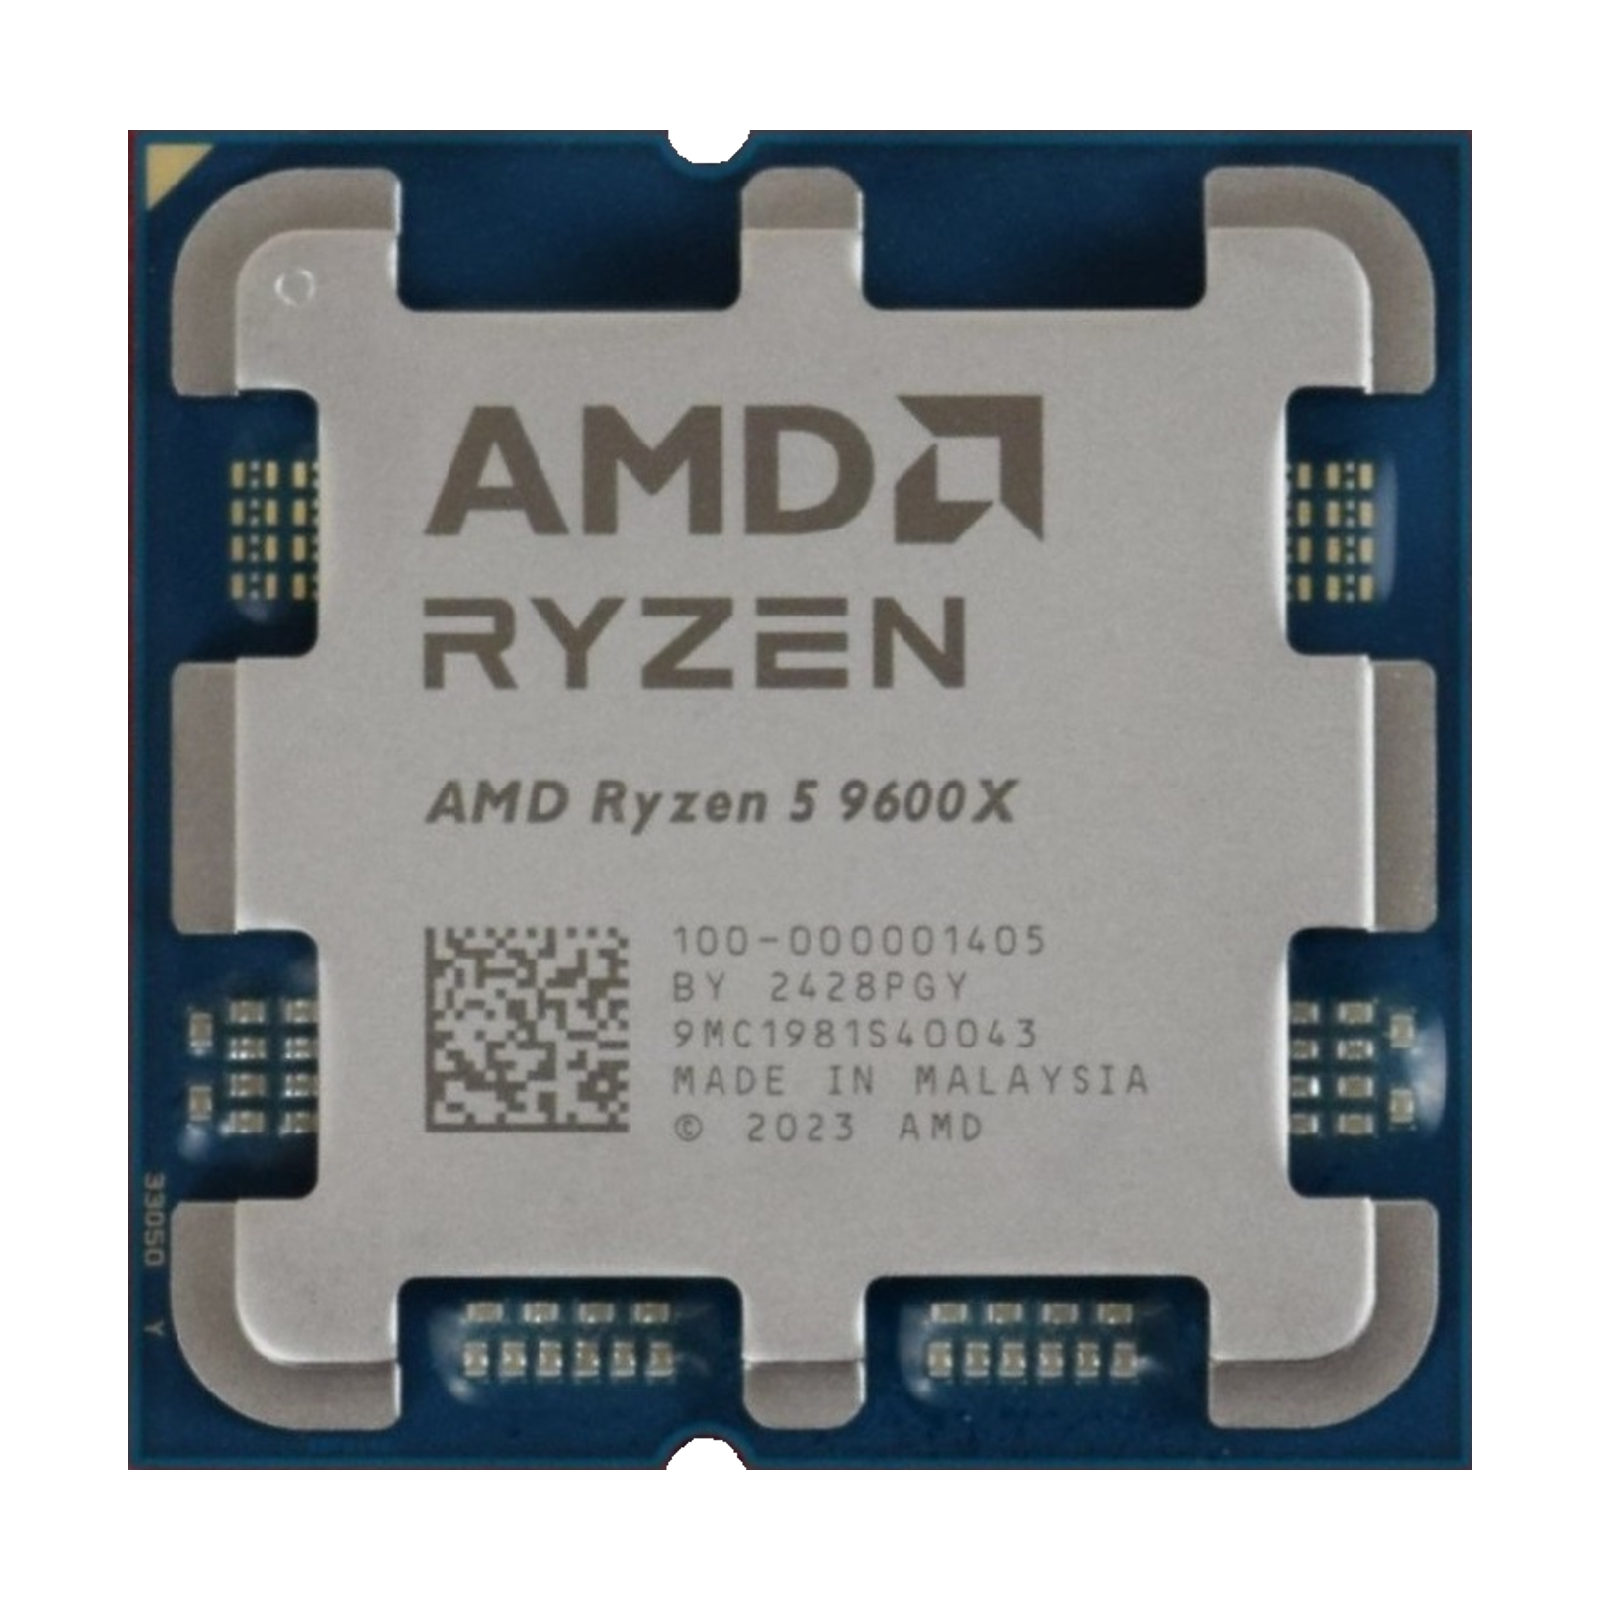
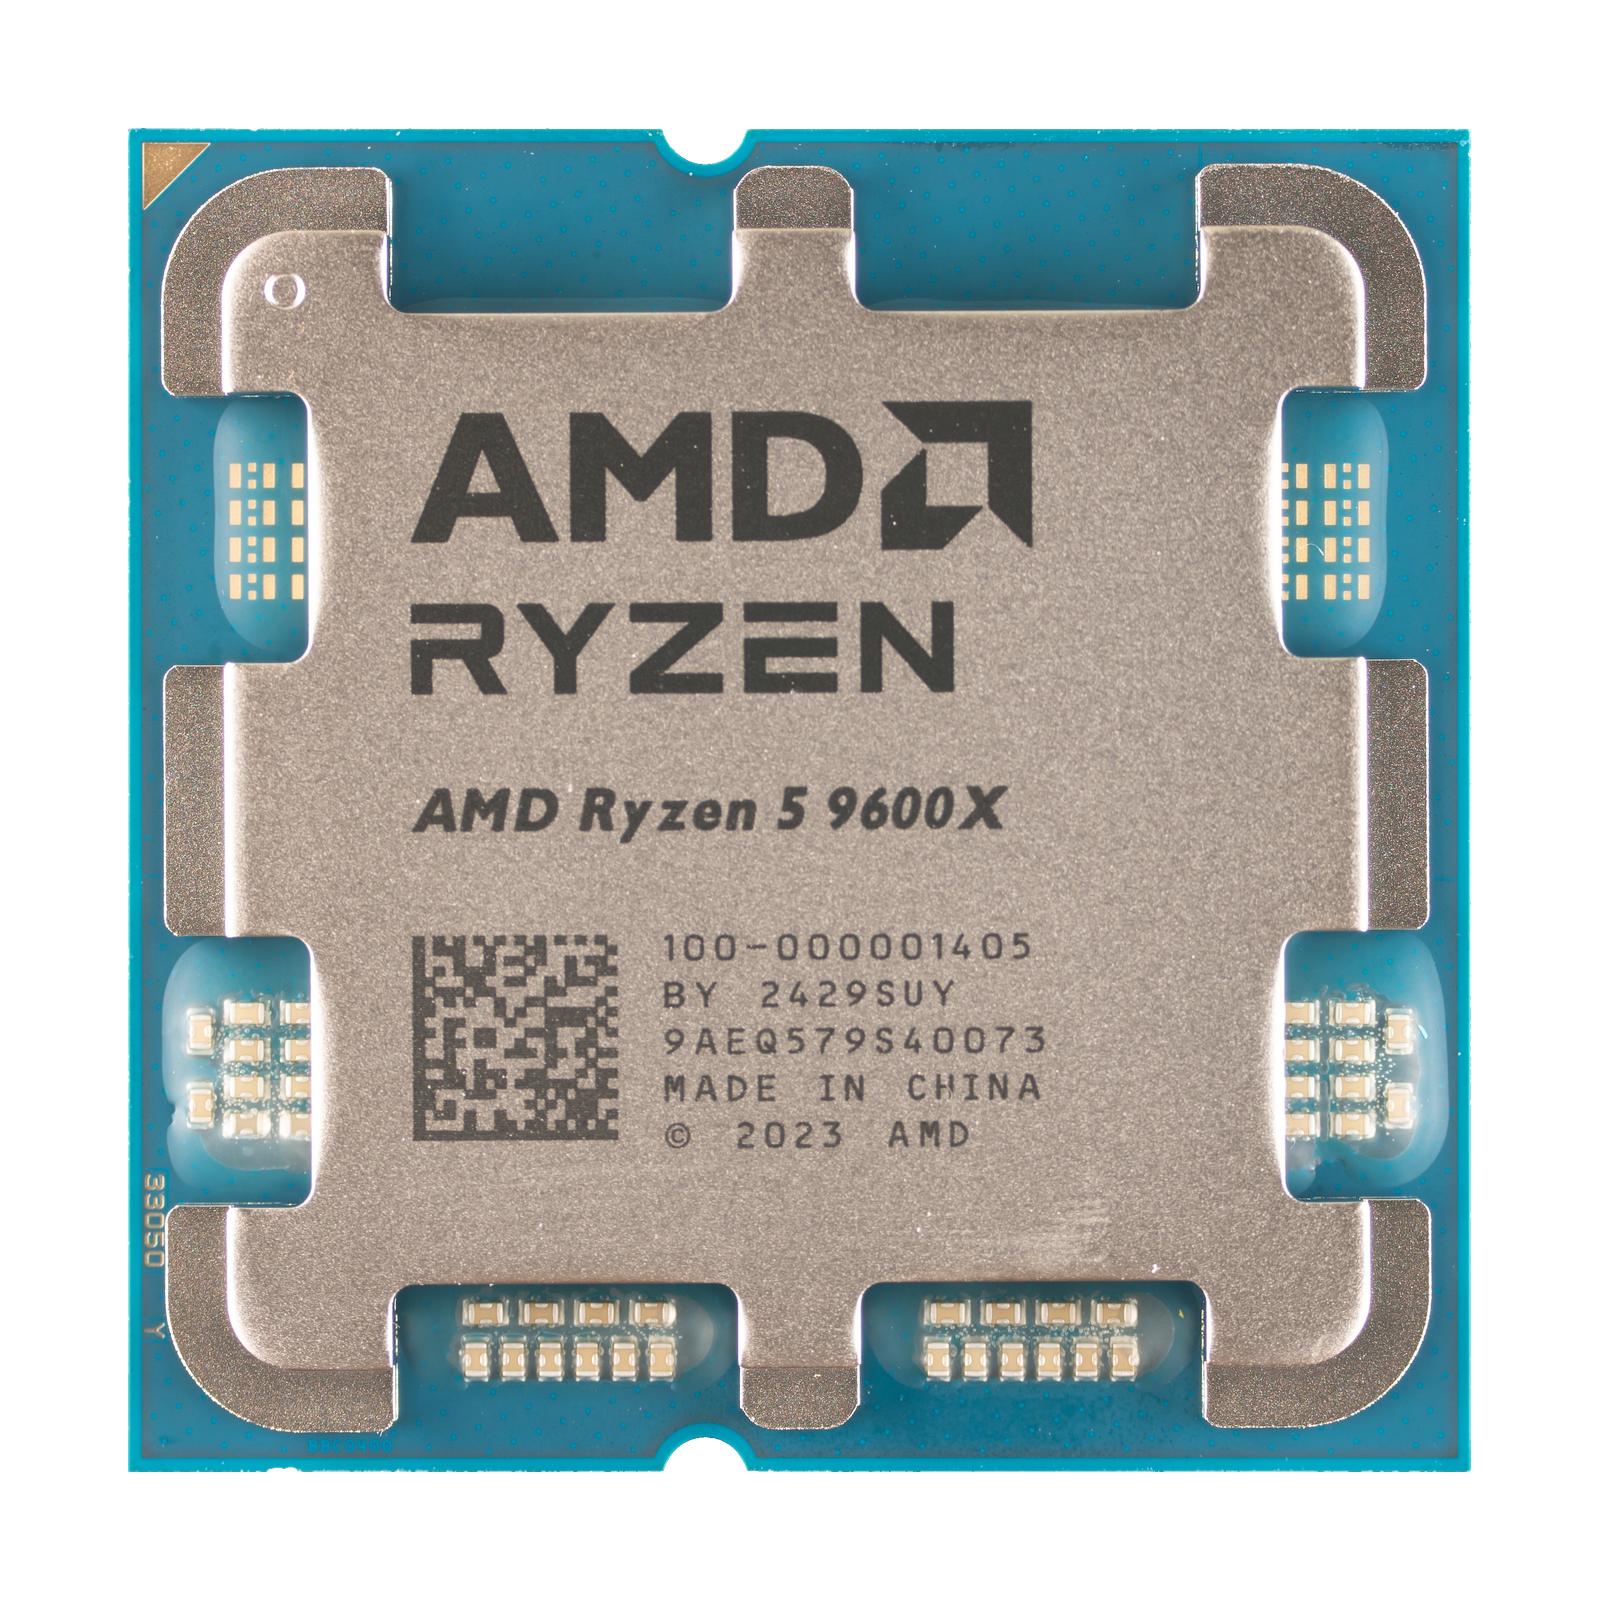
fix: replace CPU sources and bound enlargement

diff --git a/tests/unit/product-cutout.test.ts b/tests/unit/product-cutout.test.ts
@@ -14,6 +14,14 @@ import { getProductCutoutPolicy } from '../../scripts/product-cutout-policy.mjs'
 
 const execFileAsync = promisify(execFile)
 
+async function createOpaqueSquareFixture(size = 50) {
+  return sharp({
+    create: { width: size, height: size, channels: 4, background: '#2f86ff' },
+  })
+    .png()
+    .toBuffer()
+}
+
 test('normaliza un recorte sin perder alfa ni margen seguro', async () => {
   const opaqueFixture = await sharp({
     create: { width: 640, height: 320, channels: 4, background: '#2f86ff' },
@@ -37,6 +45,50 @@ test('normaliza un recorte sin perder alfa ni margen seguro', async () => {
   })
   const bounds = await measureOpaqueBounds(output)
   expect(bounds.safeMarginRatio).toBeGreaterThanOrEqual(0.06)
+})
+
+test('rechaza una ampliación que supera el límite medido con un error accionable', async () => {
+  const input = await createOpaqueSquareFixture()
+
+  await expect(
+    normalizeProductCutout(input, {
+      canvas: 100,
+      occupancy: 0.8,
+      allowEnlargement: true,
+      maxEnlargementRatio: 1.5,
+    }),
+  ).rejects.toThrow(
+    'La ampliación solicitada (1.600×) supera el máximo permitido (1.500×); fuente opaca 50×50 px, objetivo 80 px.',
+  )
+})
+
+test('exige un límite explícito cuando se habilita la ampliación', async () => {
+  const input = await createOpaqueSquareFixture()
+
+  await expect(
+    normalizeProductCutout(input, {
+      canvas: 100,
+      occupancy: 0.8,
+      allowEnlargement: true,
+    }),
+  ).rejects.toThrow(
+    'allowEnlargement requiere un maxEnlargementRatio finito mayor o igual a 1.',
+  )
+})
+
+test('acepta exactamente el límite de ampliación medido', async () => {
+  const input = await createOpaqueSquareFixture()
+  const output = await normalizeProductCutout(input, {
+    canvas: 100,
+    occupancy: 0.8,
+    allowEnlargement: true,
+    maxEnlargementRatio: 1.6,
+  })
+
+  await expect(measureOpaqueBounds(output)).resolves.toMatchObject({
+    opaqueWidth: 80,
+    opaqueHeight: 80,
+  })
 })
 
 test('el CLI normaliza solo en la ruta de salida explícita', async () => {
@@ -163,6 +215,7 @@ test('la política de G.Skill permite ampliación controlada sin cambiar los val
     canvas: 1600,
     occupancy: 0.84,
     allowEnlargement: true,
+    maxEnlargementRatio: 1.87,
   })
   expect(getProductCutoutPolicy('corsair-vengeance-ddr5-32gb-6000')).toEqual({
     canvas: 1600,
@@ -171,38 +224,47 @@ test('la política de G.Skill permite ampliación controlada sin cambiar los val
 })
 
 test('los recortes GPU revisados permiten una ampliación mínima y localizada', () => {
-  for (const slug of ['geforce-rtx-4060-8gb', 'arc-b580-12gb']) {
-    expect(getProductCutoutPolicy(slug)).toEqual({
-      canvas: 1600,
-      occupancy: 0.84,
-      allowEnlargement: true,
-    })
-  }
+  expect(getProductCutoutPolicy('geforce-rtx-4060-8gb')).toEqual({
+    canvas: 1600,
+    occupancy: 0.84,
+    allowEnlargement: true,
+    maxEnlargementRatio: 1.7,
+  })
+  expect(getProductCutoutPolicy('arc-b580-12gb')).toEqual({
+    canvas: 1600,
+    occupancy: 0.84,
+    allowEnlargement: true,
+    maxEnlargementRatio: 1.12,
+  })
   expect(getProductCutoutPolicy('geforce-rtx-5070-12gb')).toEqual({
     canvas: 1600,
     occupancy: 0.84,
   })
 })
 
-test('solo las fuentes de plataforma revisadas que lo requieren permiten ampliación', () => {
-  for (const slug of [
-    'ryzen-7-9800x3d',
-    'ryzen-5-9600x',
-    'core-ultra-7-265k',
-    'core-i5-14600k',
-    'msi-mag-b850-tomahawk-wifi',
-    'msi-pro-b650m-a-wifi',
-    'gigabyte-b760m-ds3h',
-  ]) {
+test('cada fuente de plataforma ampliada tiene un límite por slug medido y tolerado', () => {
+  const expectedLimits = {
+    'ryzen-7-9800x3d': 1.5,
+    'core-ultra-7-265k': 1.34,
+    'core-i5-14600k': 1.36,
+    'msi-mag-b850-tomahawk-wifi': 1.94,
+    'msi-pro-b650m-a-wifi': 1.9,
+    'gigabyte-b760m-ds3h': 1.51,
+  }
+
+  for (const [slug, maxEnlargementRatio] of Object.entries(expectedLimits)) {
     expect(getProductCutoutPolicy(slug)).toEqual({
       canvas: 1600,
       occupancy: 0.84,
       allowEnlargement: true,
+      maxEnlargementRatio,
     })
   }
 
-  expect(getProductCutoutPolicy('ryzen-7-7800x3d')).toEqual({
-    canvas: 1600,
-    occupancy: 0.84,
-  })
+  for (const slug of ['ryzen-7-7800x3d', 'ryzen-5-9600x']) {
+    expect(getProductCutoutPolicy(slug)).toEqual({
+      canvas: 1600,
+      occupancy: 0.84,
+    })
+  }
 })

diff --git a/tests/unit/product-credits.test.ts b/tests/unit/product-credits.test.ts
@@ -4,6 +4,28 @@ import { join } from 'node:path'
 import { expect, test } from 'vitest'
 import { PRODUCT_MEDIA_WORKFLOW, writeProductCredits } from '../../scripts/lib/product-credits.mjs'
 
+test('incluye el SHA-256 de una fuente dinámica cuando el manifiesto lo declara', async () => {
+  const directory = await mkdtemp(join(tmpdir(), 'sky-import-credits-'))
+  const output = join(directory, 'SOURCES.md')
+  const sourceSha256 = 'a'.repeat(64)
+
+  try {
+    await writeProductCredits(output, [
+      {
+        slug: 'producto-dinamico',
+        credit: 'Fotografía del comercio',
+        sourcePage: 'https://example.com/producto',
+        imageUrl: 'https://example.com/imagen-dinamica',
+        sourceSha256,
+      },
+    ])
+
+    await expect(readFile(output, 'utf8')).resolves.toContain(`SHA-256: \`${sourceSha256}\``)
+  } finally {
+    await rm(directory, { recursive: true, force: true })
+  }
+})
+
 test('la regeneración de créditos conserva el flujo y todas las entradas del manifiesto', async () => {
   const directory = await mkdtemp(join(tmpdir(), 'sky-import-credits-'))
   const output = join(directory, 'SOURCES.md')

diff --git a/public/products/SOURCES.md b/public/products/SOURCES.md
@@ -11,11 +11,11 @@ Las páginas, créditos y archivos de origen se conservan a continuación.
 - `radeon-rx-9070-xt-16gb` — [ASUS](https://www.asus.com/br/motherboards-components/graphics-cards/tuf-gaming/tuf-rx9070xt-o16g-gaming/) — [archivo original](https://dlcdnwebimgs.asus.com/files/media/56d6fef8-8294-4b6b-b1e5-50ae6c6e7584/v1/img/kv/pd.png)
 - `geforce-rtx-4060-8gb` — [MSI](https://www.msi.com/Graphics-Card/GeForce-RTX-4060-VENTUS-3X-8G/Gallery) — [archivo original](https://storage-asset.msi.com/global/picture/product/product_1689918265abde816554e825065034ba0b77b50c2c.webp)
 - `arc-b580-12gb` — [Intel](https://newsroom.intel.com/client-computing/intel-launches-arc-b-series-graphics-cards) — [archivo original](https://newsroom.intel.com/wp-content/uploads/2024/12/newsroom-intel-arc-b580-2.jpg)
-- `ryzen-7-9800x3d` — [AMD product image via PC Worth](https://www.pcworth.com/product/ad36d3fe9a9b?slug=amd-ryzen-7-9800x3d-am5-without-cooler-tray-type) — [archivo original](https://production-rdj-web-asset.s3.ap-east-1.amazonaws.com/products/cpu/ecomm/4894/images/amd-ryzen-7-9800x3d-am5-without-cooler-tray-type-1771834093699C0AED0EFCD.png)
-- `ryzen-7-7800x3d` — [AMD product image via Shop.kz](https://shop.kz/offer/protsessor-amd-ryzen-7-7800x3d-am5-oem/) — [archivo original](https://shop.kz/upload/iblock/507/xg2utmaavddkm4gzcb7zu6yxxl3pn6de/175290x2.webp)
-- `ryzen-5-9600x` — [AMD product image via ExtremePC](https://extremepc.co.nz/amd-ryzen-5-9600x-cpu-6-core-12-thread-am5-socket-oem-without-cooler/) — [archivo original](https://cdn11.bigcommerce.com/s-ms4wz8cgi2/images/stencil/original/products/116076/29317/9600X__42565.1724658852.jpg?c=1)
-- `core-ultra-7-265k` — [Intel product image via The Warehouse](https://www.thewarehouse.co.nz/p/intel-core-ultra-7-265k-lga-1851-unlocked-cpu-processor-oem-package-without-cooler/M36750185.html) — [archivo original](https://tm-prd-cdn.themarket.co.nz/resizer/view?b=productimages&h=1080&key=a93a369a16414563279a01df0898b139&w=1080)
-- `core-i5-14600k` — [Intel product image via Xstore](https://xstore.md/ru/komplektuyushhie-pk/processory/intel-core-i5-14600k) — [archivo original](https://xstore.md/images/product/2025/05/procesor-intel-core-i5-14600k-tray-xstore-md-41.webp)
+- `ryzen-7-9800x3d` — [PC Worth product photography](https://www.pcworth.com/product/ad36d3fe9a9b?slug=amd-ryzen-7-9800x3d-am5-without-cooler-tray-type) — [archivo original](https://production-rdj-web-asset.s3.ap-east-1.amazonaws.com/products/cpu/ecomm/4894/images/amd-ryzen-7-9800x3d-am5-without-cooler-tray-type-1771834093699C0AED0EFCD.png)
+- `ryzen-7-7800x3d` — [FritzchensFritz photograph via Wikimedia Commons (CC0)](https://commons.wikimedia.org/wiki/File:AMD%405nmCCD%286nmIOD%29%40Zen4%40Raphael%40Ryzen_7_7800X3D%40100-000000910_BS_2312PGY_9LW3390030138_DSCx01.jpg) — [archivo original](https://upload.wikimedia.org/wikipedia/commons/c/cd/AMD%405nmCCD%286nmIOD%29%40Zen4%40Raphael%40Ryzen_7_7800X3D%40100-000000910_BS_2312PGY_9LW3390030138_DSCx01.jpg)
+- `ryzen-5-9600x` — [FritzchensFritz photograph via Wikimedia Commons (CC0)](https://commons.wikimedia.org/wiki/File:AMD%404nmCCD%286nmIOD%29%40Zen5%40Granite_Ridge%40Ryzen_5_9600X%40100-000001405_BY_2429SUY_9AEQ579S40073_DSCx01.jpg) — [archivo original](https://upload.wikimedia.org/wikipedia/commons/a/ac/AMD%404nmCCD%286nmIOD%29%40Zen5%40Granite_Ridge%40Ryzen_5_9600X%40100-000001405_BY_2429SUY_9AEQ579S40073_DSCx01.jpg)
[1 lines of base64/hex data omitted]
+- `core-i5-14600k` — [Xstore product photography](https://xstore.md/ru/komplektuyushhie-pk/processory/intel-core-i5-14600k) — [archivo original](https://xstore.md/images/product/2025/05/procesor-intel-core-i5-14600k-tray-xstore-md-41.webp)
 - `msi-mag-b850-tomahawk-wifi` — [MSI](https://www.msi.com/Motherboard/MAG-B850-TOMAHAWK-MAX-WIFI/Gallery) — [archivo original](https://storage-asset.msi.com/global/picture/product/product_1736159752859b0d59d04f539fee0f53b5742d9275.webp)
 - `asus-tuf-gaming-b650-plus-wifi` — [ASUS](https://www.asus.com/motherboards-components/motherboards/tuf-gaming/tuf-gaming-b650-plus-wifi/) — [archivo original](https://dlcdnwebimgs.asus.com/files/media/7f358aac-d2d6-4dd0-8fba-dea85469a22e/V1/img/kv-main.png)
 - `msi-pro-b650m-a-wifi` — [MSI](https://www.msi.com/Motherboard/PRO-B650M-A-WIFI/Gallery) — [archivo original](https://storage-asset.msi.com/global/picture/product/product_1664782103bd0750526bf08cc98f5d01ef1436f9fa.webp)
